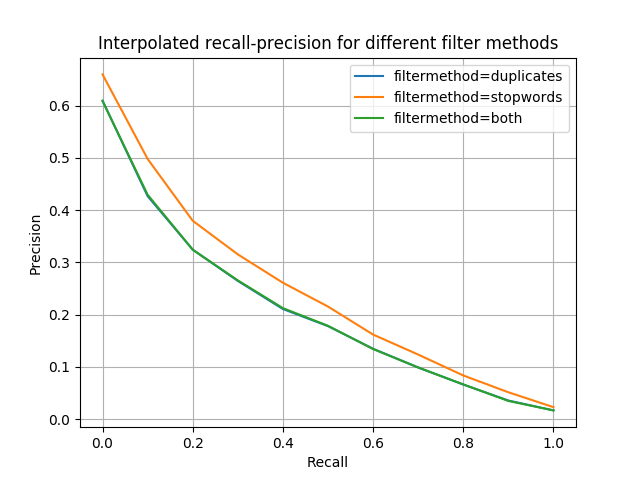
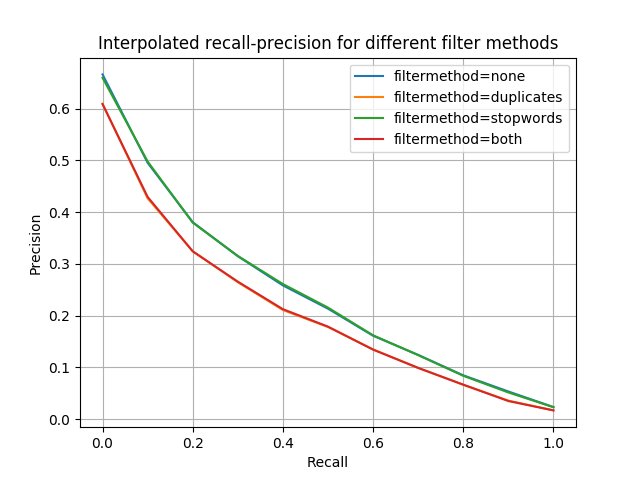
Added 'none'-condition to filtermethod

Changed region(s): [[0.0625, 0.125, 0.9062, 0.875], [0.0625, 0.75, 0.0938, 0.7812]]

diff --git a/experiment/generate_plots.py b/experiment/generate_plots.py
@@ -41,5 +41,5 @@ def generate_iprec_plot(experiment, values, title, plot_baseline=False):
     plt.show()
 
 generate_iprec_plot("k",[1,3,5,10], "Interpolated recall-precision for different values of K", True)
-generate_iprec_plot("filtermethod", ["duplicates","stopwords","both"], "Interpolated recall-precision for different filter methods")
+generate_iprec_plot("filtermethod", ["none","duplicates","stopwords","both"], "Interpolated recall-precision for different filter methods")
 generate_iprec_plot("method", ["api","index_body","index_title"], "Interpolated recall-precision for different Wikipedia-query methods", True)
